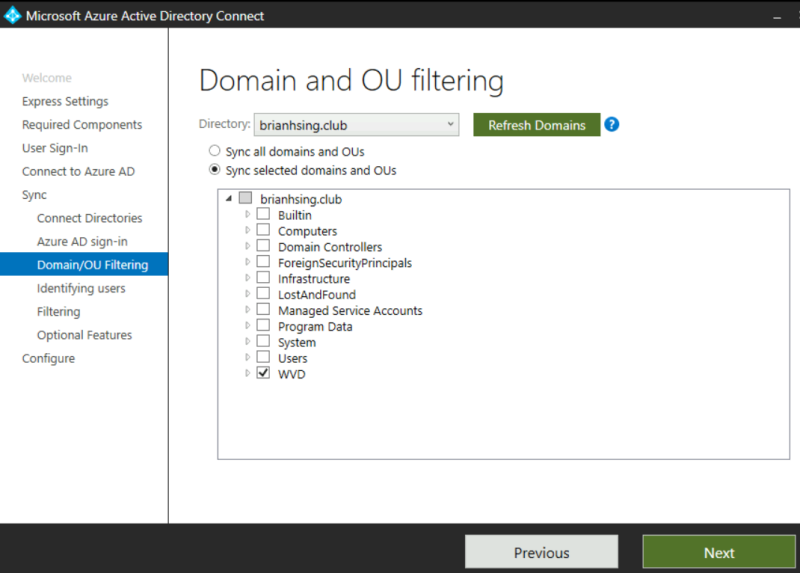
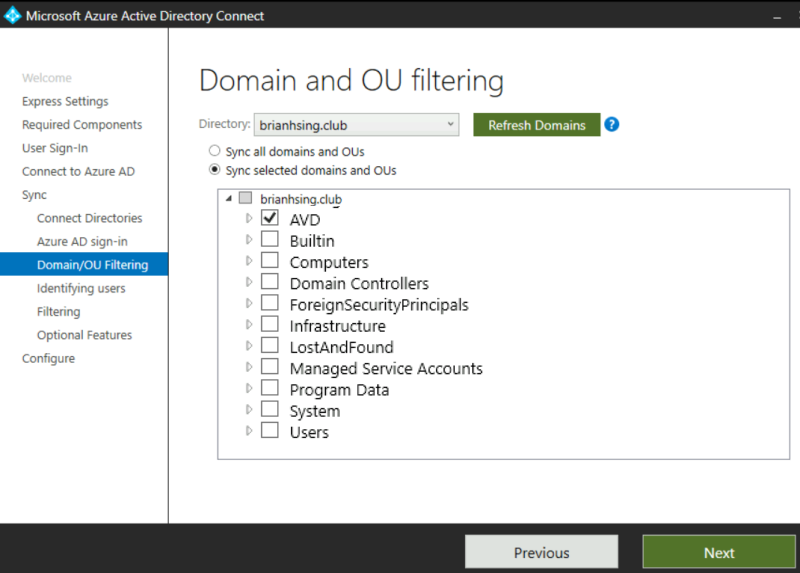
update content

Changed region(s): [[0.2812, 0.356, 0.625, 0.7714]]

diff --git a/Lab2-3.md b/Lab2-3.md
@@ -29,15 +29,18 @@
 	``` 
  - 完成後請輸入`Connect-AzAccount`，輸入您具有 Azure AD Global admin 權限的管理者帳號密碼<br>
  - 請輸入以下指令，其中 resourceGroup、OU、StorageAccountName，會替換成您實際使用的名稱<br>
-   	```
-	$resourceGroup = '資源群組名稱'
-	$OU = 'AVD'
-	$StorageAccountName = '儲存體帳戶名稱'
+  ```
+  $ResourceGroupName = "資源群組名稱"
+  $StorageAccountName = "儲存體帳戶名稱"
+  $DomainAccountType = "ComputerAccount" 
+  $OrganizationalUnitName = "AVD"
 
-	join-AzStorageAccountForAuth -ResourceGroupName $resourceGroup `
-                             -Name $StorageAccountName `
-                             -DomainAccountType "ComputerAccount" `
-                             -OrganizationalUnitName $OU
+  Join-AzStorageAccount `
+          -ResourceGroupName $ResourceGroupName `
+          -StorageAccountName $StorageAccountName `
+          -DomainAccountType $DomainAccountType `
+          -OrganizationalUnitName $OrganizationalUnitName `
+          -EncryptionType "'RC4','AES256'" 
 	``` 
  - 完成後 Powershell ISE 會顯示如下<br>
    ![GITHUB](https://github.com/BrianHsing/Azure-Virtual-Desktop/blob/master/Lab2/ada3.png "ada3")<br>

diff --git a/Lab2-1.md b/Lab2-1.md
@@ -30,11 +30,11 @@
 	 ![GITHUB](https://github.com/BrianHsing/Azure-Virtual-Desktop/blob/master/Lab2/adds8.png "adds8")<br>
 	- Review Option 下一步後，Prerequisites Check 頁面選擇 Install，等待安裝結束後，會自動開機。<br>
 	 ![GITHUB](https://github.com/BrianHsing/Azure-Virtual-Desktop/blob/master/Lab2/adds9.png "adds9")<br>
-	- 使用 Bastion 連線 (您設定的NetBios\isadmin / isadmin@123)<br>
+	- 使用 Bastion 連線 (isadmin / isadmin@123)<br>
 	- 開啟 Active Directory Users and Computers <br>
 	- 建立組織單位 (organizational unit) AVD<br>
 	 ![GITHUB](https://github.com/BrianHsing/Azure-Virtual-Desktop/blob/master/Lab2/adds10.png "adds10")<br>
-	 ![GITHUB](https://github.com/BrianHsing/Azure-Virtual-Desktop/blob/master/Lab2/adds11.png "adds11")<br>
+	 ![GITHUB](https://github.com/BrianHsing/Azure-Virtual-Desktop/blob/master/Lab2/adds11-1.png "adds11")<br>
 	- 建立使用者物件 user1、user2、user3<br>
 	 ![GITHUB](https://github.com/BrianHsing/Azure-Virtual-Desktop/blob/master/Lab2/adds12.png "adds12")<br>
 	 ![GITHUB](https://github.com/BrianHsing/Azure-Virtual-Desktop/blob/master/Lab2/adds13.png "adds13")<br>
